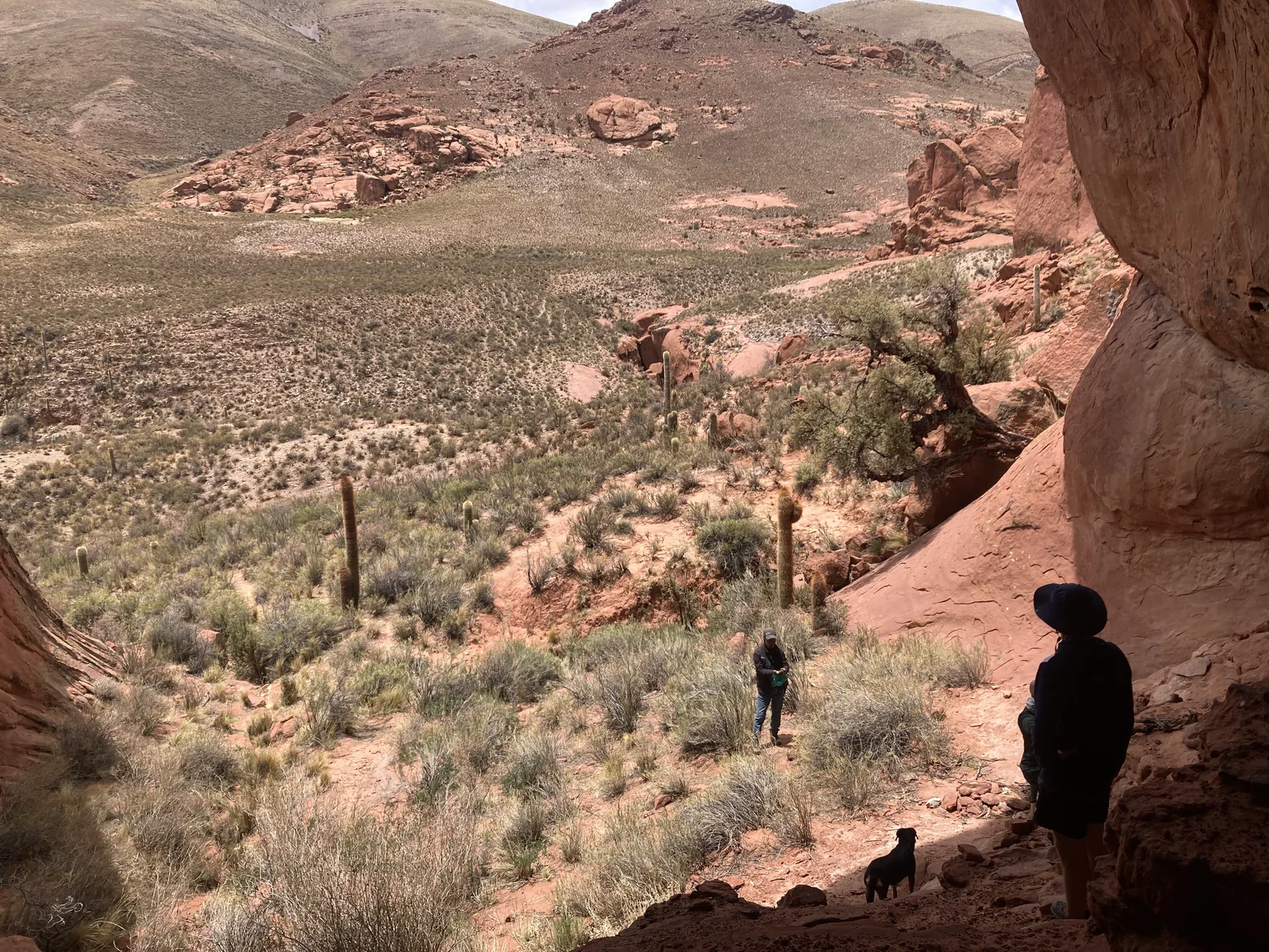
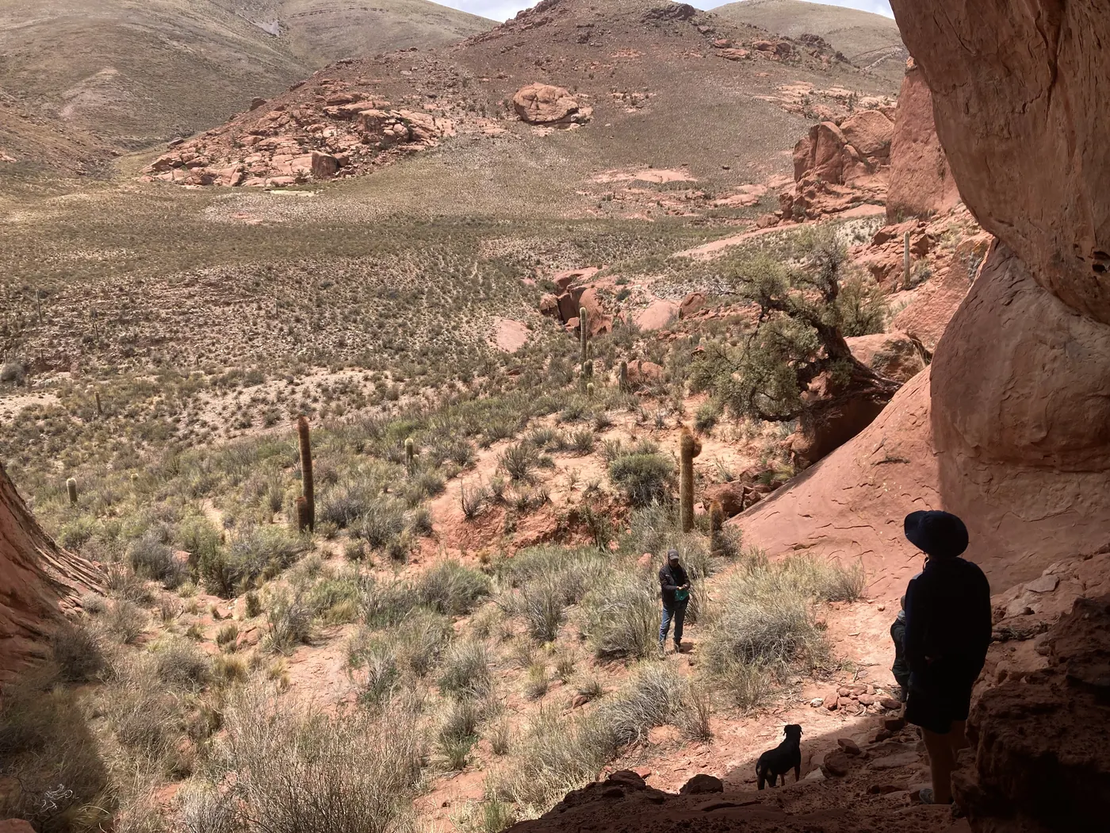
Web: ordenar Wamani Selecta y aligerar una foto
El orden de la linea pasa a ser Canuto, La Sala, EcoLodge y Finca la Fe,
que cierra por ser la mas dificil de conseguir. Se reparten los cuatro
lugares que la linea ya ocupa, sin tocar los numeros de las demas.

La foto de La Ventana, que es la tapa de la pagina de Inca Cueva Express,
pasa de 624 a 399 KB (1400 px en vez de 1600): era la mas pesada de las
nuevas y es lo primero que carga esa pagina en el celular.

diff --git a/Program.cs b/Program.cs
@@ -1177,6 +1177,36 @@ using (var scope = app.Services.CreateScope())
         db.SaveChanges();
     }
 
+    // ---- El orden de la línea Wamani Selecta ----
+    //
+    // Lo pidió Lautaro: Canuto, La Sala, EcoLodge y Finca la Fé al final, porque Finca
+    // es la más difícil de conseguir y conviene dejarla como cierre.
+    //
+    // No se tocan los números de las demás experiencias: se toman los cuatro lugares
+    // que la línea ya ocupa en la lista y se reparten entre ellas en ese orden. Así el
+    // resto de la web queda exactamente igual.
+    //
+    // Corre una sola vez: la condición es que La Sala esté DESPUÉS de Finca la Fé, que
+    // es como quedó al darla de alta. Una vez ordenadas, no vuelve a tocar nada, y si
+    // mañana se reordenan desde el panel, tampoco.
+    {
+        var orden = new[] { "especial-the-canuto-glamping", "especial-la-sala",
+                            "especial-ecolodge-de-la-selva", "especial-finca-la-fe" };
+        var selectas = db.ExcursionesWeb.Where(x => orden.Contains(x.Clave)).ToList();
+        var sala = selectas.FirstOrDefault(x => x.Clave == "especial-la-sala");
+        var finca = selectas.FirstOrDefault(x => x.Clave == "especial-finca-la-fe");
+        if (selectas.Count == orden.Length && sala != null && finca != null && sala.Orden > finca.Orden)
+        {
+            var lugares = selectas.Select(x => x.Orden).OrderBy(x => x).ToList();
+            for (var i = 0; i < orden.Length; i++)
+            {
+                var ex = selectas.First(x => x.Clave == orden[i]);
+                ex.Orden = lugares[i];
+            }
+            db.SaveChanges();
+        }
+    }
+
     // ---- Los testimonios de ejemplo pasan a ser reseñas REALES de Google ----
     //
     // Cuando se armó la web quedaron tres testimonios inventados, firmados "María —
